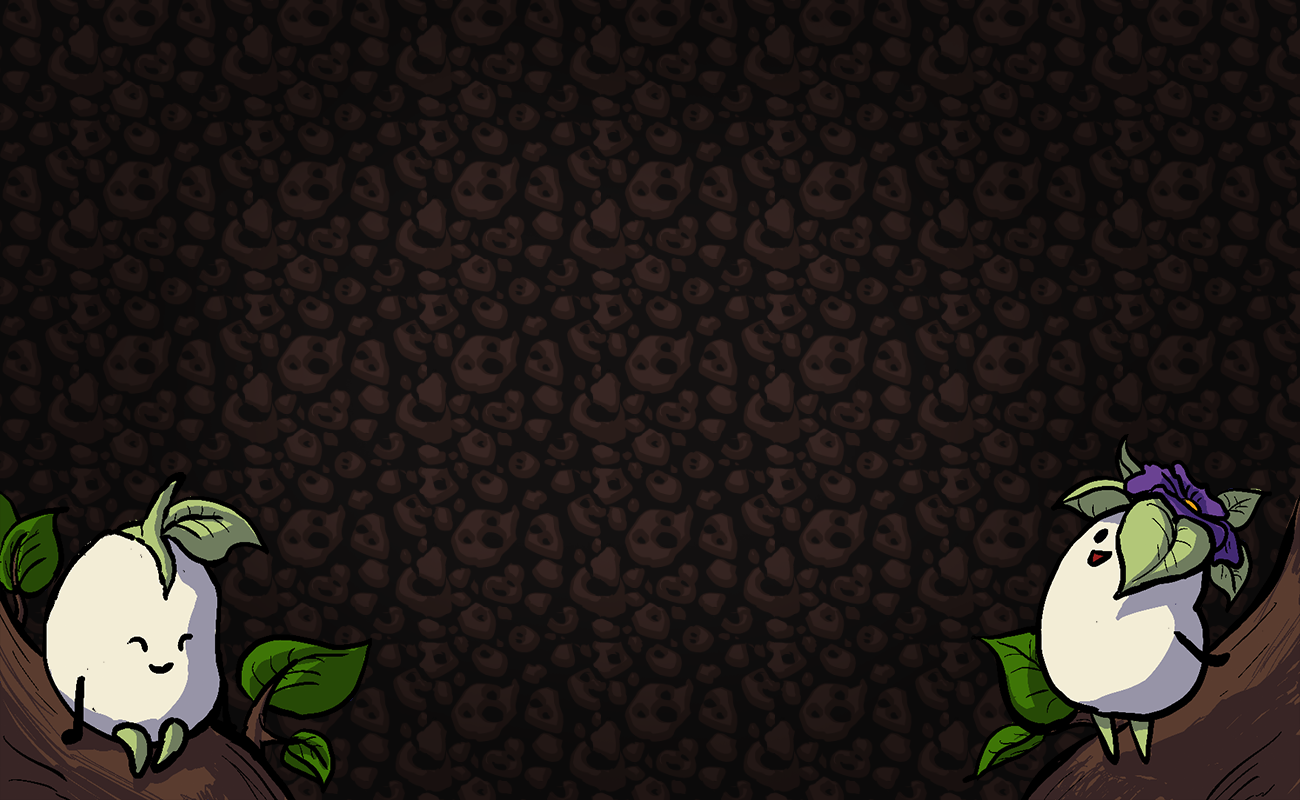
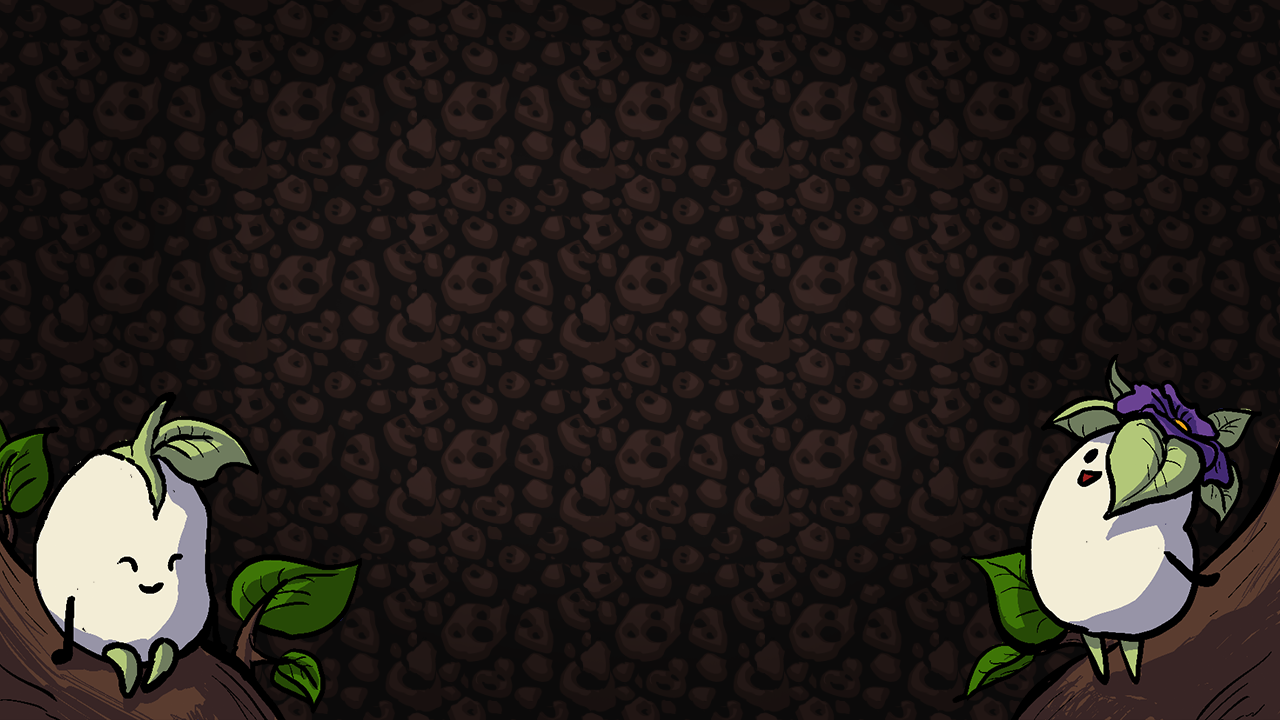
menubg

diff --git a/src/scene/CreditsScene.js b/src/scene/CreditsScene.js
@@ -12,7 +12,7 @@ export default class CreditsScene extends Scene {
 		super();
 		// initialize size to use the center method
 		this.setSize(config.screen.w, config.screen.h);
-		this.bg = 'img/helpbg.png';
+		this.bg = 'img/menubg.png';
 
 		// create layout container to organize buttons
 		const layout = new VerticalLayout(new V2(0, 130), 0, 100);

diff --git a/src/scene/TitleScene.js b/src/scene/TitleScene.js
@@ -17,7 +17,7 @@ export default class TitleScene extends Scene {
 		super();
 		// initialize size to use the center method
 		this.setSize(config.screen.w, config.screen.h);
-		this.bg = 'img/helpbg.png';
+		this.bg = 'img/menubg.png';
 
 		// create layout container to organize buttons
 		this.layout = new VerticalLayout(new V2(0, 80), 0, 50);

diff --git a/src/main.js b/src/main.js
@@ -29,6 +29,7 @@ window.onload = () => {
 	graphics.add(`img/bottom_ui_0_roots_normal.png`);
 	graphics.add(`img/bottom_ui_0_roots_hover.png`);
 	graphics.add(`img/helpbg.png`);
+	graphics.add(`img/menubg.png`);
 	graphics.add(`img/sun_icon.png`);
 	graphics.add(`img/water_icon.png`);
 	graphics.add(`img/roots_top.png`);
